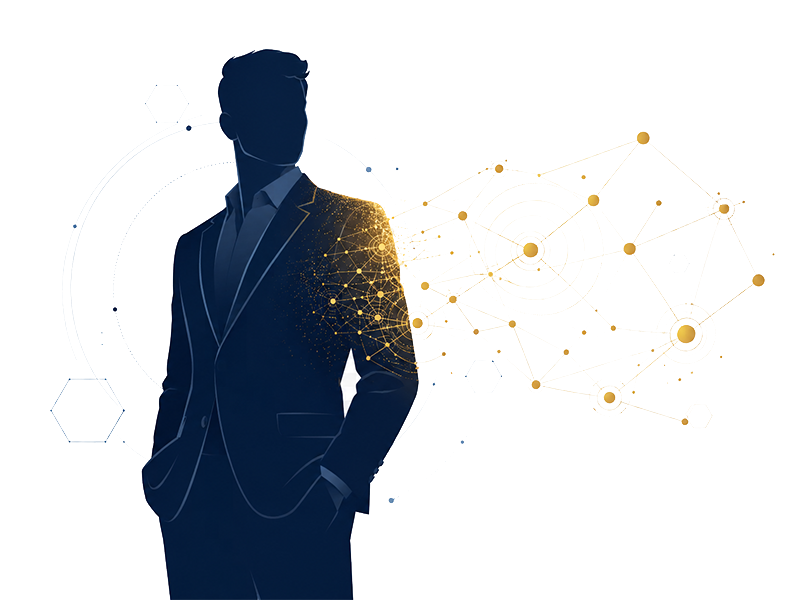
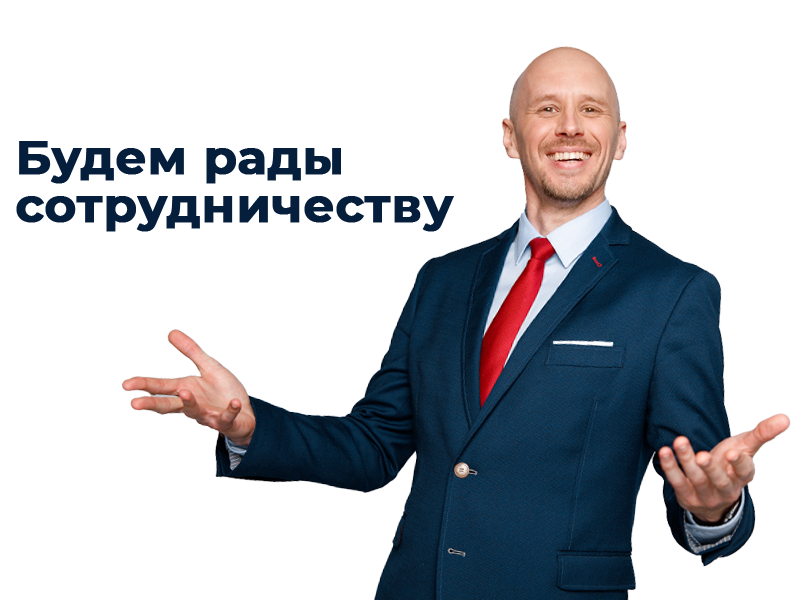
About: update Ivan photo, fix neiroset.png, add salinsafety.ru link
- Copy new expert photo from Assets/about to public/assets/about
- Rename нейросеть.png → neiroset.png, update icon reference in About.tsx
- Simplify bio: name + founder title + "Узнать больше об Иване" + salinsafety.ru button

diff --git a/client/src/components/sections/About.tsx b/client/src/components/sections/About.tsx
@@ -11,7 +11,7 @@ const STATS = [
 
 const WHY_CARDS = [
   {
-    icon: '/assets/icons/нейросеть.png',
+    icon: '/assets/icons/neiroset.png',
     title: 'Реальный опыт',
     text: 'Проведение тренингов и создание видео для крупных международных компаний.',
   },
@@ -194,9 +194,44 @@ export function About() {
                 <div style={{ fontFamily: 'var(--bp-font-heading)', fontWeight: 700, fontSize: 20, color: 'var(--bp-dark-blue)', marginBottom: 4 }}>
                   Иван Салин
                 </div>
-                <div style={{ fontFamily: 'var(--bp-font-body)', fontSize: 15, color: '#6b7280' }}>
-                  Основатель Best Practice AI · Эксперт по ИИ и промышленной безопасности
+                <div style={{ fontFamily: 'var(--bp-font-body)', fontSize: 15, color: '#6b7280', marginBottom: 20 }}>
+                  Основатель Best Practice
                 </div>
+                <div style={{ fontFamily: 'var(--bp-font-body)', fontSize: 13, color: '#9ca3af', marginBottom: 8 }}>
+                  Узнать больше об Иване
+                </div>
+                <a
+                  href="https://www.salinsafety.ru/"
+                  target="_blank"
+                  rel="noopener noreferrer"
+                  style={{
+                    display: 'inline-flex',
+                    alignItems: 'center',
+                    gap: 6,
+                    fontFamily: 'var(--bp-font-heading)',
+                    fontWeight: 600,
+                    fontSize: 13,
+                    color: 'var(--bp-dark-blue)',
+                    textDecoration: 'none',
+                    border: '1.5px solid var(--bp-dark-blue)',
+                    borderRadius: 6,
+                    padding: '8px 18px',
+                    transition: 'all 0.2s',
+                  }}
+                  onMouseEnter={e => {
+                    (e.currentTarget as HTMLAnchorElement).style.background = 'var(--bp-dark-blue)'
+                    ;(e.currentTarget as HTMLAnchorElement).style.color = 'var(--bp-gold)'
+                  }}
+                  onMouseLeave={e => {
+                    (e.currentTarget as HTMLAnchorElement).style.background = 'transparent'
+                    ;(e.currentTarget as HTMLAnchorElement).style.color = 'var(--bp-dark-blue)'
+                  }}
+                >
+                  salinsafety.ru
+                  <svg width="12" height="12" viewBox="0 0 12 12" fill="none" stroke="currentColor" strokeWidth="1.8" strokeLinecap="round" strokeLinejoin="round">
+                    <path d="M1 11 L11 1 M11 1 H5 M11 1 V7" />
+                  </svg>
+                </a>
               </div>
             </div>
           </FadeInSection>